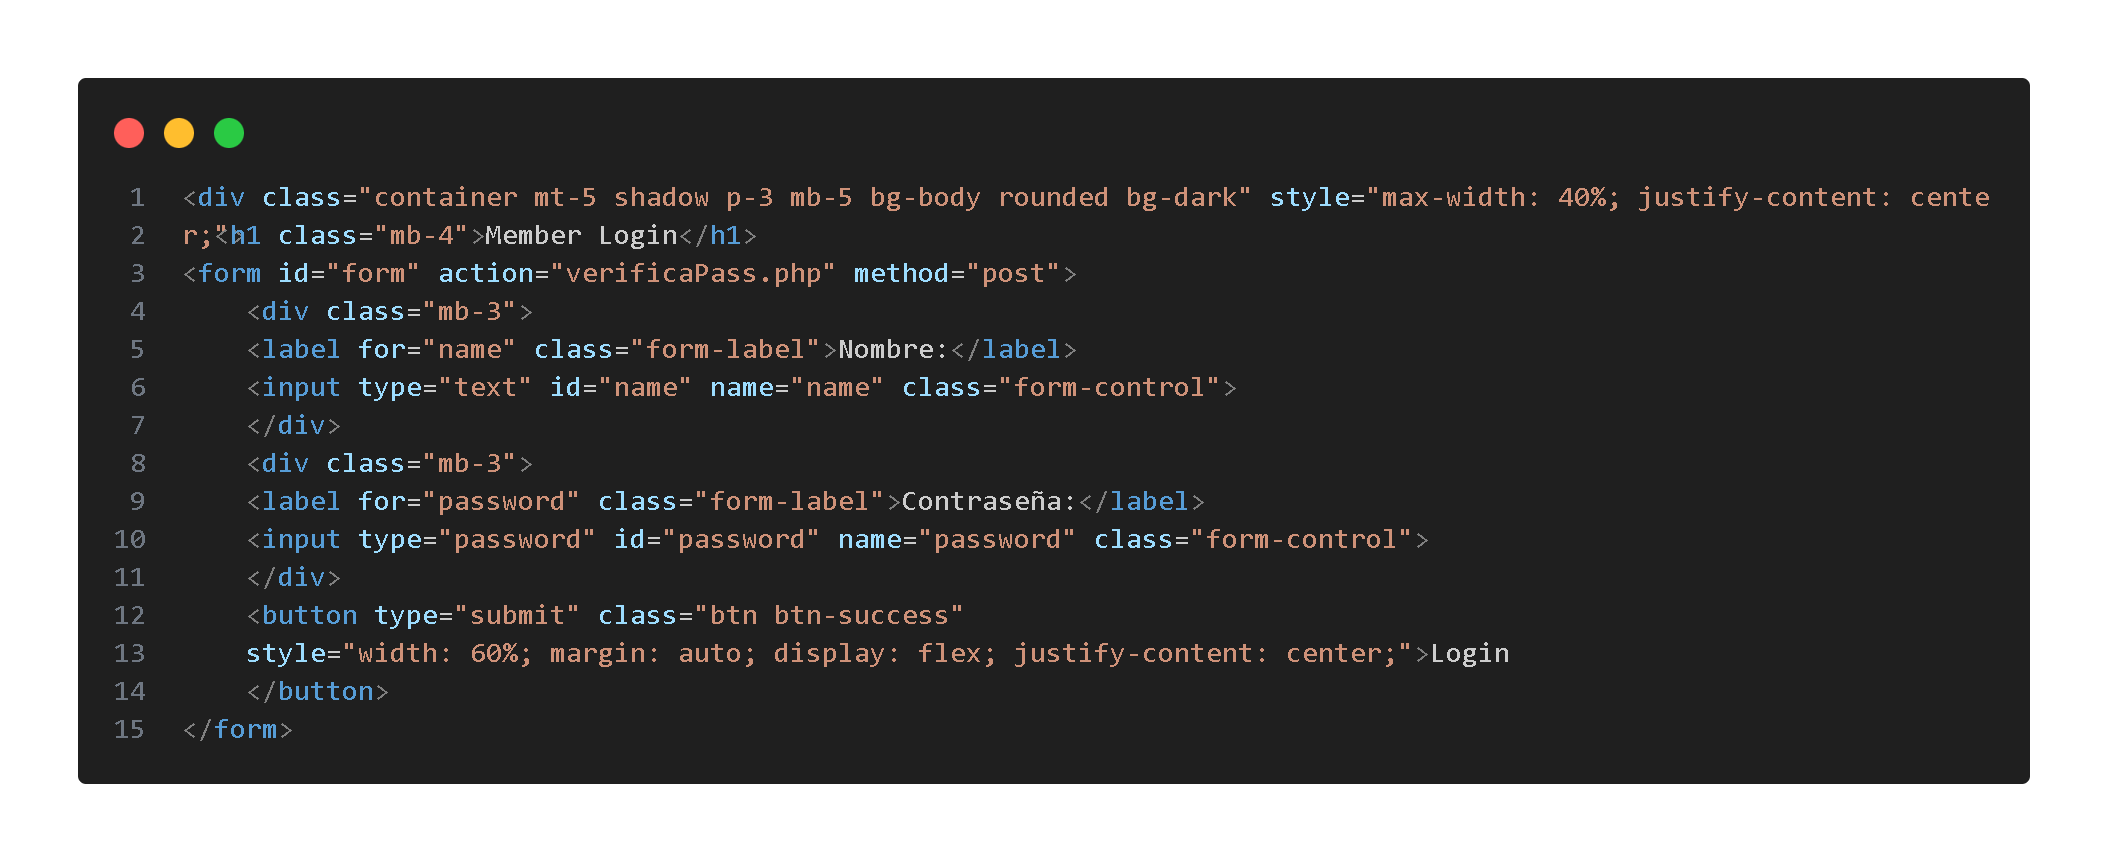
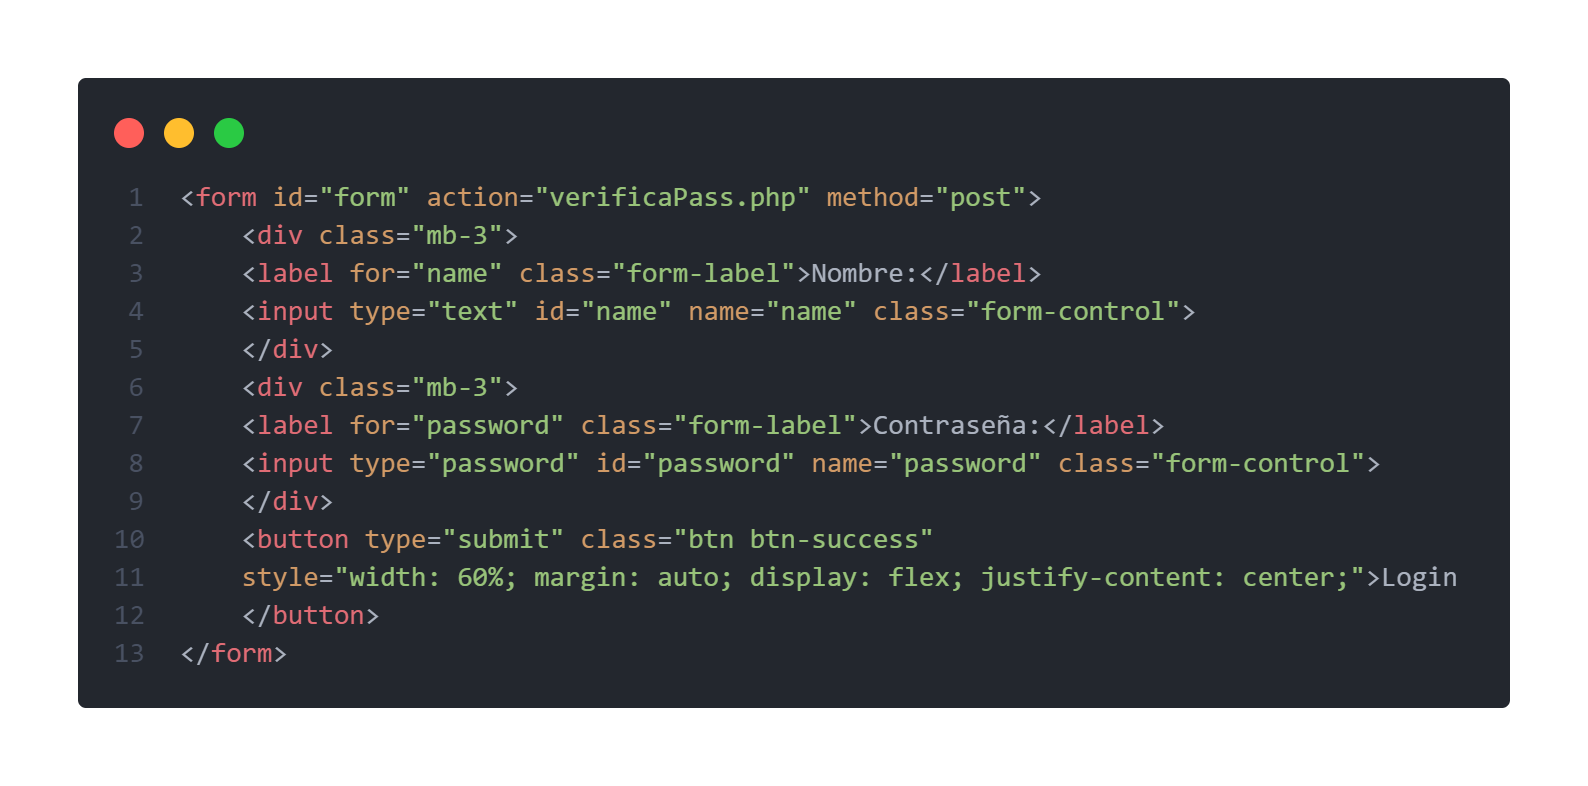
refactor: Corregir títulos de los formularios en ejercicios del tp1

Changed region(s): [[0.0309, 0.0916, 0.9874, 0.916], [0.6788, 0.5802, 0.864, 0.6107]]

diff --git a/tp2/ejercicio3/vista/form.php b/tp2/ejercicio3/vista/form.php
@@ -93,19 +93,19 @@
         
         <div class="container mt-5 shadow p-3 mb-5 bg-body rounded bg-dark" style="max-width: 40%; justify-content: center;">
           <h1 class="mb-4">Member Login</h1>
-        <form id="form" action="verificaPass.php" method="post">
-            <div class="mb-3">
-            <label for="name" class="form-label">Nombre:</label>
-            <input type="text" id="name" name="name" class="form-control">
-            </div>
-            <div class="mb-3">
-            <label for="password" class="form-label">Contraseña:</label>
-            <input type="password" id="password" name="password" class="form-control">
-            </div>
-            <button type="submit" class="btn btn-success"
-            style="width: 60%; margin: auto; display: flex; justify-content: center;">Login
-            </button>
-        </form>
+<form id="form" action="verificaPass.php" method="post">
+    <div class="mb-3">
+    <label for="name" class="form-label">Nombre:</label>
+    <input type="text" id="name" name="name" class="form-control">
+    </div>
+    <div class="mb-3">
+    <label for="password" class="form-label">Contraseña:</label>
+    <input type="password" id="password" name="password" class="form-control">
+    </div>
+    <button type="submit" class="btn btn-success"
+    style="width: 60%; margin: auto; display: flex; justify-content: center;">Login
+    </button>
+</form>
         
         <div id="resultado"></div>
         </div>

diff --git a/tp3/ejercicio2/vista/form.php b/tp3/ejercicio2/vista/form.php
@@ -93,10 +93,10 @@
   <div class="row  mt-5">
     <div class="col">
       <div id="contenedorEj1" class="text-center bg-body rounded">
-          <form method="POST" action="../action/subirArchivo.php" enctype="multipart/form-data">
-            Ingresa el archivo: <input type="file" name="miArchivo" id="miArchivo" />
-            <button class="boton" type="submit" value="Subir archivo">Enviar</button>
-          </form>
+<form method="POST" action="../action/subirArchivo.php" enctype="multipart/form-data">
+  Ingresa el archivo: <input type="file" name="miArchivo" id="miArchivo" />
+  <button class="boton" type="submit" value="Subir archivo">Enviar</button>
+</form>
       </div>
 
 

diff --git a/tp1/ejercicio7/vista/form.php b/tp1/ejercicio7/vista/form.php
@@ -13,7 +13,7 @@
     <!--BOOSTRAP-->
 
     <link rel="stylesheet" href="../../../style.css">
-    <title>Tp 1 ejercicio 3</title>
+    <title>Tp 1 ejercicio 7</title>
 </head>
 
 <body style="font-family: arial">
@@ -105,7 +105,6 @@
                         <option value="restar">Restar</option>
                         <option value="multiplicar">Multiplicar</option>
                     </select>
-                    
                     <br>
                     <button class="boton" type="submit">Volver</button>
                   

diff --git a/tp1/ejercicio6/vista/form.php b/tp1/ejercicio6/vista/form.php
@@ -16,7 +16,7 @@
   <script src="https://cdn.jsdelivr.net/npm/bootstrap@5.3.3/dist/js/bootstrap.bundle.min.js" integrity="sha384-YvpcrYf0tY3lHB60NNkmXc5s9fDVZLESaAA55NDzOxhy9GkcIdslK1eN7N6jIeHz" crossorigin="anonymous"></script>
 
     <link rel="stylesheet" href="../../../style.css?v=1.1">
-    <title>Tp 1 ejercicio 2</title>
+    <title>Tp 1 ejercicio 6</title>
 </head>
 <body style="font-family: arial">
 

diff --git a/tp1/ejercicio3/vista/form.php b/tp1/ejercicio3/vista/form.php
@@ -18,7 +18,7 @@
     crossorigin="anonymous"></script>
 
     <link rel="stylesheet" href="../../../style.css?v=2.2">
-    <title>Tp 1 ejercicio 2</title>
+    <title>Tp 1 ejercicio 3</title>
 </head>
 <body style="font-family: arial">
 

diff --git a/tp1/ejercicio4/vista/form.php b/tp1/ejercicio4/vista/form.php
@@ -18,7 +18,7 @@
     crossorigin="anonymous"></script>
 
     <link rel="stylesheet" href="../../../style.css?v=2.6">
-    <title>Tp 1 ejercicio 2</title>
+    <title>Tp 1 ejercicio 4</title>
 </head>
 <body style="font-family: arial">
 

diff --git a/tp1/ejercicio8/vista/form.php b/tp1/ejercicio8/vista/form.php
@@ -18,7 +18,7 @@
     crossorigin="anonymous"></script>
 
     <link rel="stylesheet" href="../../../style.css?v=2.3">
-    <title>Tp 1 ejercicio 2</title>
+    <title>Tp 1 ejercicio 8</title>
 </head>
 <body style="font-family: arial">
 

diff --git a/tp1/ejercicio5/vista/form.php b/tp1/ejercicio5/vista/form.php
@@ -17,7 +17,7 @@
     crossorigin="anonymous"></script>
 
   <link rel="stylesheet" href="../../../style.css?v=2.6">
-  <title>Tp 1 ejercicio 2</title>
+  <title>Tp 1 ejercicio 5</title>
 </head>
 
 <body style="font-family: arial">

diff --git a/tp1/ejercicio1/vista/form.php b/tp1/ejercicio1/vista/form.php
@@ -13,7 +13,7 @@
 
   <link rel="stylesheet" href="../../../style.css?v=2.4">
 
-  <title>Practicos PWD</title>
+  <title>Tp1 jercicio 1</title>
 
 </head>
 
